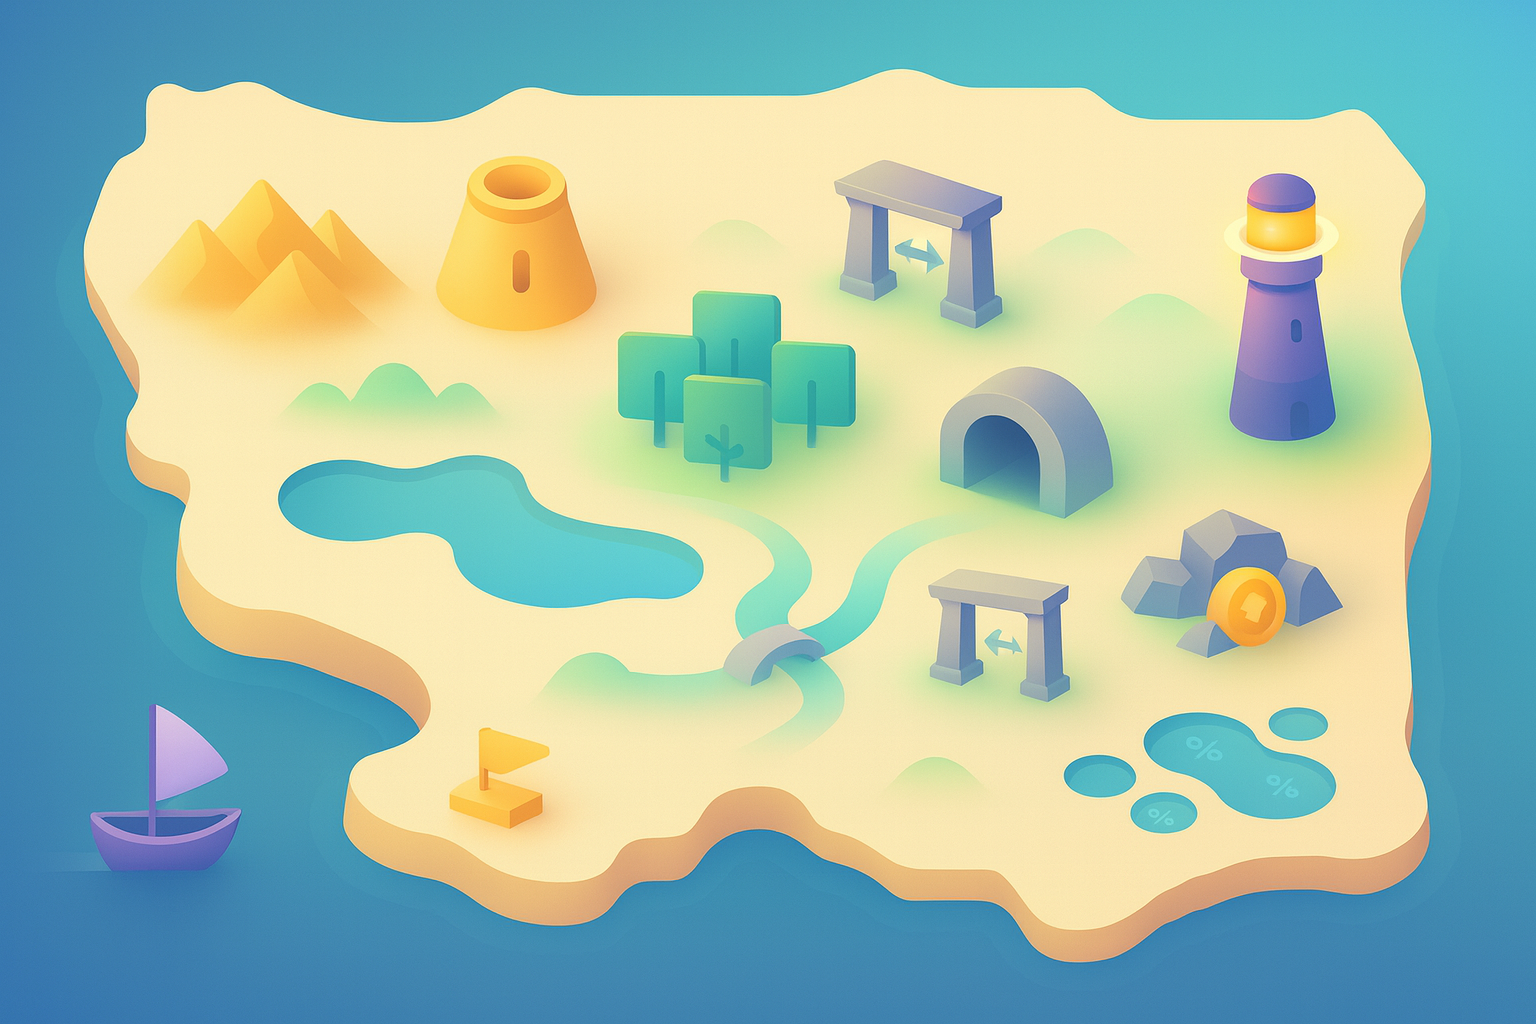
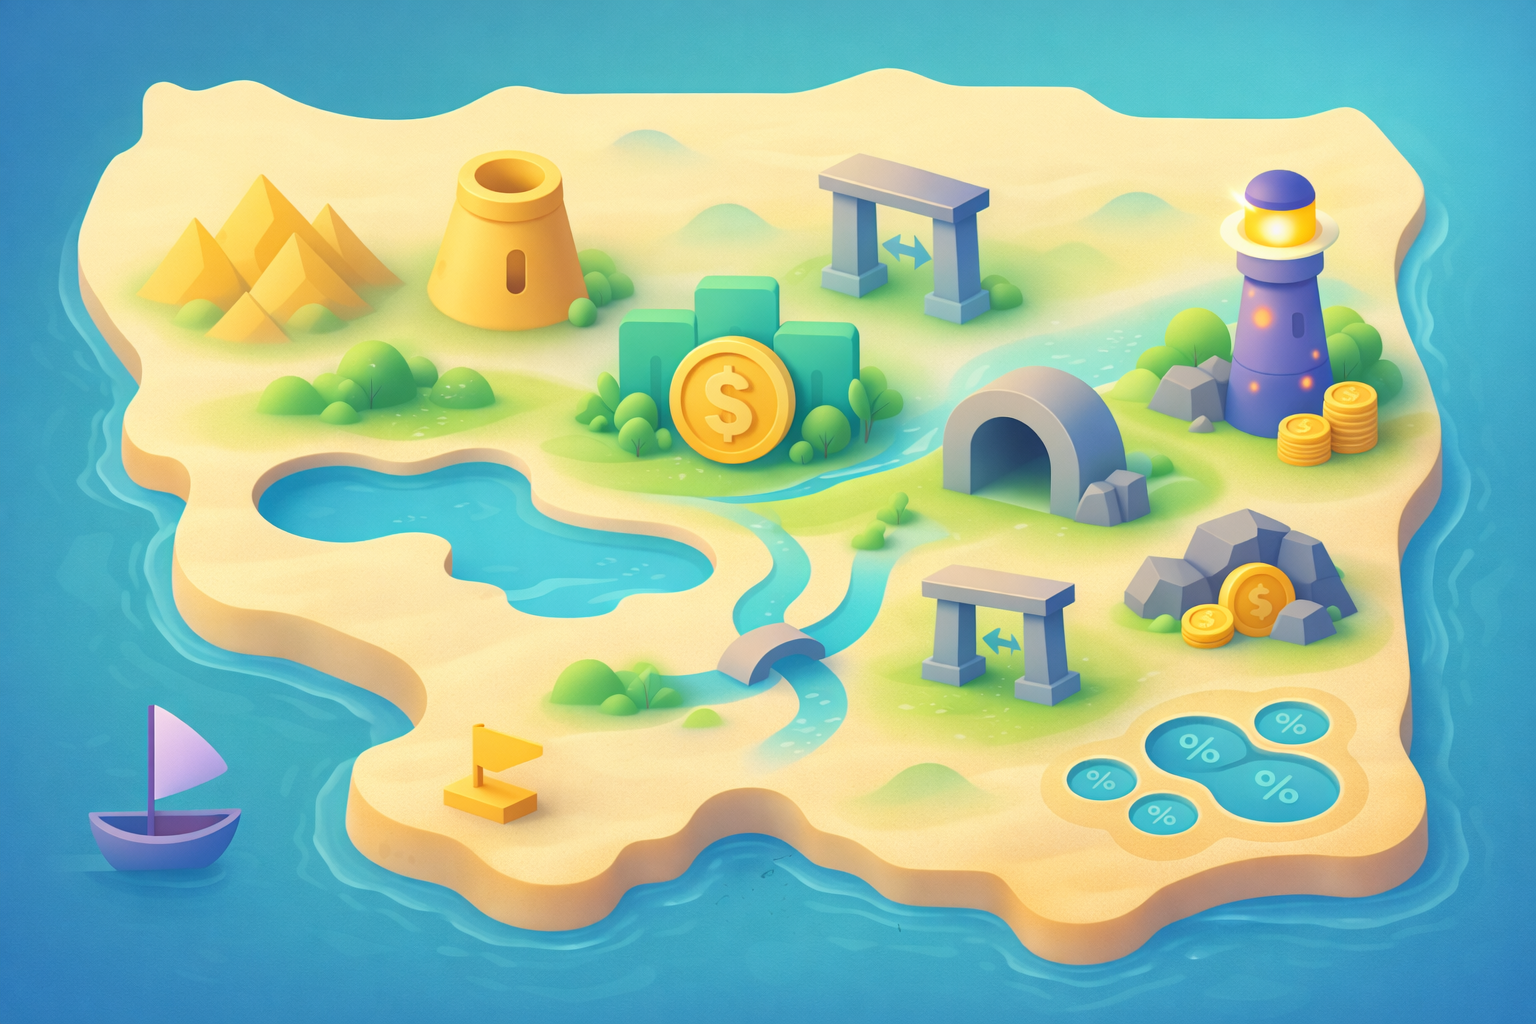
shop en ingles + cambio de mapa

diff --git a/app/tienda.js b/app/tienda.js
@@ -17,6 +17,12 @@
   };
 
   var noticeTimer = null;
+  var tr = function (text) {
+    if (window.I18N && typeof window.I18N.tr === 'function') {
+      return window.I18N.tr(String(text || ''));
+    }
+    return String(text || '');
+  };
 
   function showNotice(message, tone) {
     if (!notice) return;
@@ -176,17 +182,17 @@
     media.className = 'tienda-card__media';
     var img = document.createElement('img');
     img.src = item.imagen || '../assets/icons/coin_ranking.png';
-    img.alt = item.nombre;
+    img.alt = tr(item.nombre);
     media.appendChild(img);
 
     var body = document.createElement('div');
     body.className = 'tienda-card__body';
     var title = document.createElement('h3');
     title.className = 'tienda-card__title';
-    title.textContent = item.nombre;
+    title.textContent = tr(item.nombre);
     var desc = document.createElement('p');
     desc.className = 'tienda-card__desc';
-    desc.textContent = item.descripcion || 'Sin descripcion.';
+    desc.textContent = tr(item.descripcion || 'Sin descripcion.');
     body.appendChild(title);
     body.appendChild(desc);
 
@@ -202,10 +208,10 @@
     price.appendChild(priceIcon);
     price.appendChild(priceText);
 
-    var stockText = createChip('Stock: ' + availability.stock);
+    var stockText = createChip(tr('Stock:') + ' ' + availability.stock);
     var maxText = Number.isFinite(availability.max)
-      ? ('Comprado: ' + availability.purchased + '/' + availability.max)
-      : 'Sin limite';
+      ? (tr('Comprado:') + ' ' + availability.purchased + '/' + availability.max)
+      : tr('Sin limite');
     var limitChip = createChip(maxText, 'tienda-chip--limit');
 
     meta.appendChild(price);
@@ -218,13 +224,13 @@
     var wrap = document.createElement('div');
     wrap.className = 'tienda-buy-wrap';
     if (availability.reason) {
-      wrap.setAttribute('data-tooltip', availability.reason);
+      wrap.setAttribute('data-tooltip', tr(availability.reason));
     }
 
     var btn = document.createElement('button');
     btn.type = 'button';
     btn.className = 'btn btn--primary tienda-buy-btn';
-    btn.textContent = 'Comprar';
+    btn.textContent = tr('Comprar');
     btn.dataset.id = item.id;
     if (!availability.canBuy) btn.disabled = true;
 
@@ -246,7 +252,7 @@
       empty.className = 'empty-state';
       var text = document.createElement('div');
       text.className = 'empty-state__text';
-      text.textContent = 'No hay articulos disponibles.';
+      text.textContent = tr('No hay articulos disponibles.');
       empty.appendChild(text);
       grid.appendChild(empty);
       return;
@@ -261,7 +267,7 @@
   function attemptPurchase(item) {
     var availability = getAvailability(item);
     if (!availability.canBuy) {
-      showNotice(availability.reason || 'No se puede comprar ahora.', 'warn');
+      showNotice(tr(availability.reason || 'No se puede comprar ahora.'), 'warn');
       return;
     }
 
@@ -281,7 +287,8 @@
       window.CoinsUI.updateAll();
     }
 
-    showNotice('Compra realizada: ' + item.nombre + '.', 'success');
+    var msg = tr('Compra realizada: {name}.').replace('{name}', tr(item.nombre));
+    showNotice(msg, 'success');
     render();
   }
 
@@ -304,6 +311,10 @@
     });
   }
 
+  document.addEventListener('i18n:change', function () {
+    render();
+  });
+
   function applyData(data) {
     state.items = normalizeItems(data);
     state.itemsById = {};
@@ -323,13 +334,13 @@
         applyData(data);
       })
       .catch(function () {
-        showNotice('No se pudo cargar la tienda.', 'error');
+        showNotice(tr('No se pudo cargar la tienda.'), 'error');
         grid.innerHTML = '';
         var empty = document.createElement('div');
         empty.className = 'empty-state';
         var text = document.createElement('div');
         text.className = 'empty-state__text';
-        text.textContent = 'No se pudo cargar el listado de articulos.';
+        text.textContent = tr('No se pudo cargar el listado de articulos.');
         empty.appendChild(text);
         grid.appendChild(empty);
       });

diff --git a/app/i18n.js b/app/i18n.js
@@ -104,6 +104,31 @@
     ['Sin descripcion.', 'No description.'],
     ['Sin limite', 'No limit'],
     ['Stock', 'Stock'],
+    ['Stock:', 'Stock:'],
+    ['Comprado:', 'Purchased:'],
+    ['Peluche Adamis', 'Adamis plush'],
+    ['Un peluche del personaje Adamis.', 'A plush of the Adamis character.'],
+    ['Entrada de cine', 'Movie ticket'],
+    ['Una entrada para disfrutar una pelicula.', 'A ticket to enjoy a movie.'],
+    ['Una entrada para disfrutar una película.', 'A ticket to enjoy a movie.'],
+    ['Balon de volleyball', 'Volleyball'],
+    ['Balón de volleyball', 'Volleyball'],
+    ['BalÃ³n de volleyball', 'Volleyball'],
+    ['Un balon de volleyball oficial.', 'An official volleyball.'],
+    ['Un balón de volleyball oficial.', 'An official volleyball.'],
+    ['Un balÃ³n de volleyball oficial.', 'An official volleyball.'],
+    ['Balon de futbol', 'Soccer ball'],
+    ['Balón de futbol', 'Soccer ball'],
+    ['BalÃ³n de futbol', 'Soccer ball'],
+    ['Un balon de futbol de La Liga.', 'A La Liga soccer ball.'],
+    ['Un balón de futbol de La Liga.', 'A La Liga soccer ball.'],
+    ['Un balÃ³n de futbol de La Liga.', 'A La Liga soccer ball.'],
+    ['Sesion de baloncesto', 'Basketball session'],
+    ['Una hora de juego en la cancha.', 'One hour of play on the court.'],
+    ['Salida a acampar', 'Camping trip'],
+    ['Equipo basico para una noche al aire libre.', 'Basic gear for a night outdoors.'],
+    ['Partido de futbol', 'Soccer match'],
+    ['Un partido amistoso con tus amigos.', 'A friendly match with your friends.'],
     ['Sin stock disponible', 'Out of stock'],
     ['Limite por usuario alcanzado', 'Per-user limit reached'],
     ['Precio invalido', 'Invalid price'],
@@ -618,6 +643,10 @@
     let m = null;
     m = normalized.match(/^Te faltan\s+(\d+)\s+monedas$/i);
     if (m) return `You need ${m[1]} more coins`;
+    m = normalized.match(/^Stock:\s*(\d+)$/i);
+    if (m) return `Stock: ${m[1]}`;
+    m = normalized.match(/^Comprado:\s*(\d+)\s*\/\s*(\d+)$/i);
+    if (m) return `Purchased: ${m[1]}/${m[2]}`;
     m = normalized.match(/^Compra realizada:\s+(.+)\.$/i);
     if (m) return `Purchase completed: ${m[1]}.`;
     m = normalized.match(/^Has terminado con\s+(\d+)\s+fallo(s?)\.$/i);
